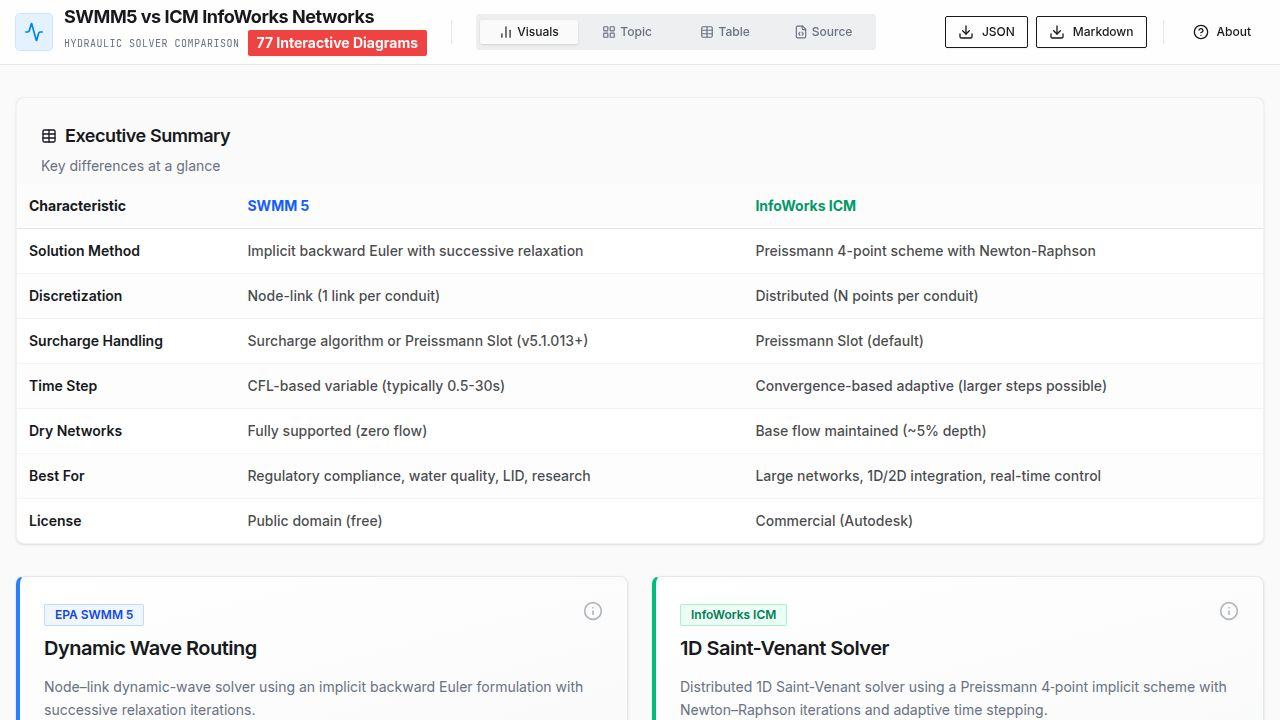
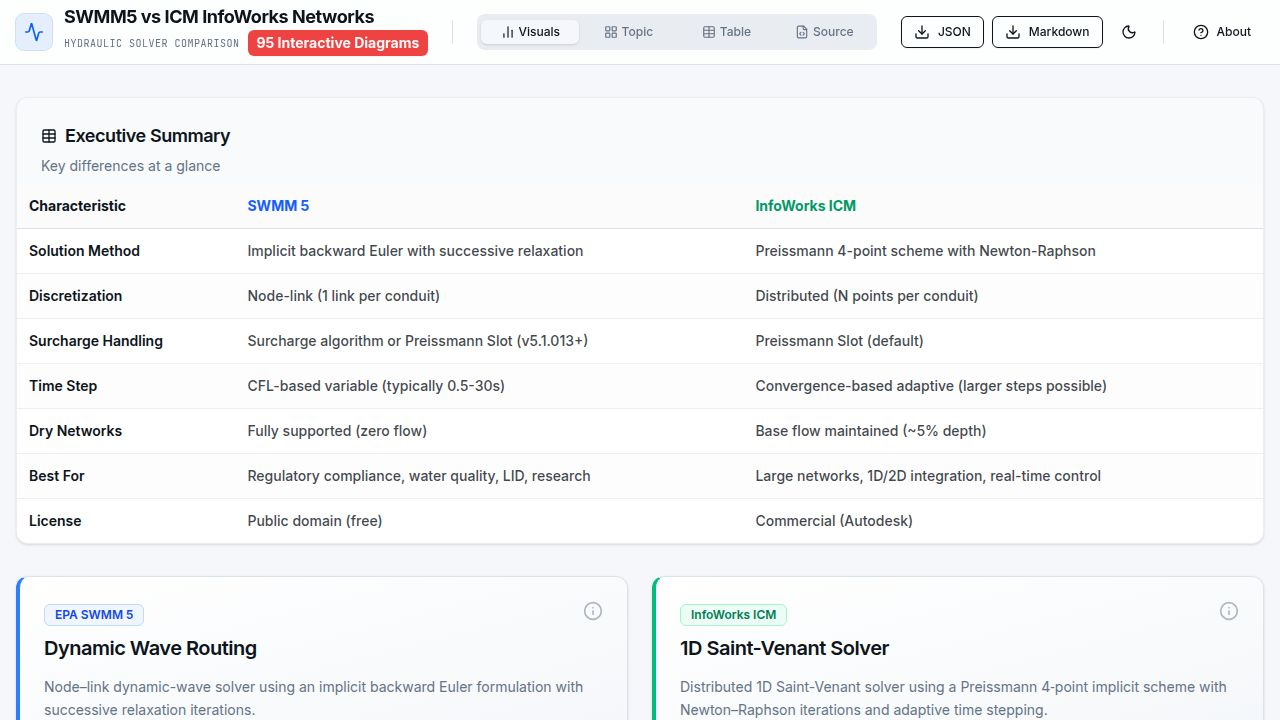
Add historical water engineering diagrams to the application
Integrates 13 new historical animation components into the dashboard, updating the total diagram count and adding a new "historical" category with associated icon and section rendering in `client/src/pages/dashboard.tsx` and `replit.md`.

Replit-Commit-Author: Agent
Replit-Commit-Session-Id: 5b81d055-9c16-4af7-9787-48380cdaf35a
Replit-Commit-Checkpoint-Type: intermediate_checkpoint
Replit-Commit-Event-Id: 1de66645-4fce-4c91-8a32-67608d3ea632
Replit-Commit-Screenshot-Url: https://storage.googleapis.com/screenshot-production-us-central1/2a707dae-af1b-4a4d-b422-ffcd7bd3aade/5b81d055-9c16-4af7-9787-48380cdaf35a/DLFIjJa
Replit-Helium-Checkpoint-Created: true

diff --git a/client/src/pages/dashboard.tsx b/client/src/pages/dashboard.tsx
@@ -23,7 +23,8 @@ import {
   Clock,
   Workflow,
   Moon,
-  Sun
+  Sun,
+  Landmark
 } from "lucide-react";
 import { useTheme } from "@/hooks/use-theme";
 import { Button } from "@/components/ui/button";
@@ -93,6 +94,9 @@ import {
 } from "@/components/visuals/ReviewDiagrams";
 import { ICMManholeSimulator } from "@/components/visuals/ICMManholeSimulator";
 import { BackwaterPropagation, OneDTwoDCoupling, ManholeStorageVolume, FloodTypeComparison } from "@/components/visuals/NodeAnimations";
+import { RomanAqueductAnimation, DujiangyanAnimation, IncaFountainAnimation, PersianQanatAnimation } from "@/components/visuals/HistoricalAnimations";
+import { IndianStepwellAnimation, AztecDikeAnimation, DutchPolderAnimation, RomanSiphonAnimation } from "@/components/visuals/HistoricalAnimations2";
+import { MayaFiltrationAnimation, KhmerBarayAnimation, CloacaMaximaAnimation, IndusValleyDrainAnimation, ArchimedesScrewAnimation } from "@/components/visuals/HistoricalAnimations3";
 import heroImage from "@assets/generated_images/abstract_fluid_dynamics_network_blueprint.png";
 
 const TOPIC_DIAGRAM_MAP: Record<string, { category: string; label: string }[]> = {
@@ -124,6 +128,7 @@ const DIAGRAM_CATEGORIES = [
   { id: "inlets", label: "Surface-to-Sewer", icon: "grid", count: 4 },
   { id: "green", label: "Green Infrastructure", icon: "leaf", count: 2 },
   { id: "architecture", label: "Code Architecture", icon: "code", count: 5 },
+  { id: "historical", label: "Historical Engineering", icon: "landmark", count: 13 },
 ];
 
 export default function Dashboard() {
@@ -212,7 +217,7 @@ export default function Dashboard() {
               <h1 className="text-lg font-bold tracking-tight leading-none">SWMM5 vs ICM InfoWorks Networks</h1>
               <div className="flex items-center gap-2 mt-1">
                 <p className="text-[10px] text-muted-foreground font-mono uppercase tracking-wider">Hydraulic Solver Comparison</p>
-                <Badge variant="destructive" className="text-sm px-2 py-0.5 font-bold" data-testid="badge-diagram-count">82 Interactive Diagrams</Badge>
+                <Badge variant="destructive" className="text-sm px-2 py-0.5 font-bold" data-testid="badge-diagram-count">95 Interactive Diagrams</Badge>
               </div>
             </div>
             
@@ -484,7 +489,8 @@ export default function Dashboard() {
                                        cat.id === "climate" ? Cloud : 
                                        cat.id === "green" ? Leaf : 
                                        cat.id === "icm" ? Gauge : 
-                                       cat.id === "inlets" ? Grid3X3 : Code;
+                                       cat.id === "inlets" ? Grid3X3 : 
+                                      cat.id === "historical" ? Landmark : Code;
                  return (
                    <Button
                      key={cat.id}
@@ -873,6 +879,82 @@ export default function Dashboard() {
                  <div className="grid md:grid-cols-2 gap-6">
                     <MinorLossesDiagram />
                     <ReportingSystemDiagram />
+                 </div>
+               </div>
+             )}
+
+             {activeCategory === "historical" && (
+               <div className="space-y-6" data-testid="section-historical">
+                 <div className="mb-4">
+                   <h3 className="text-2xl font-bold tracking-tight mb-2">Historical Water Engineering</h3>
+                   <p className="text-muted-foreground">300,000 years of water engineering brought to life through interactive hydraulic simulations — with SWMM5/ICM equations visible and parameters adjustable.</p>
+                 </div>
+                 <div className="mt-4 mb-4">
+                   <h4 className="text-xl font-bold tracking-tight mb-2">Gravity Flow Systems</h4>
+                   <p className="text-muted-foreground text-sm">Ancient civilizations mastered gravity-driven water delivery across vast distances.</p>
+                 </div>
+                 <div className="grid md:grid-cols-1 gap-6">
+                    <RomanAqueductAnimation />
+                 </div>
+                 <div className="grid md:grid-cols-1 gap-6">
+                    <DujiangyanAnimation />
+                 </div>
+                 <div className="grid md:grid-cols-1 gap-6">
+                    <IncaFountainAnimation />
+                 </div>
+                 <div className="mt-6 mb-4">
+                   <h4 className="text-xl font-bold tracking-tight mb-2">Underground & Groundwater</h4>
+                   <p className="text-muted-foreground text-sm">Ingenious systems for tapping aquifers and accessing water tables.</p>
+                 </div>
+                 <div className="grid md:grid-cols-1 gap-6">
+                    <PersianQanatAnimation />
+                 </div>
+                 <div className="grid md:grid-cols-1 gap-6">
+                    <IndianStepwellAnimation />
+                 </div>
+                 <div className="mt-6 mb-4">
+                   <h4 className="text-xl font-bold tracking-tight mb-2">Flood Control</h4>
+                   <p className="text-muted-foreground text-sm">How ancient engineers protected cities from floods using dikes, polders, and passive flow control.</p>
+                 </div>
+                 <div className="grid md:grid-cols-1 gap-6">
+                    <AztecDikeAnimation />
+                 </div>
+                 <div className="grid md:grid-cols-1 gap-6">
+                    <DutchPolderAnimation />
+                 </div>
+                 <div className="mt-6 mb-4">
+                   <h4 className="text-xl font-bold tracking-tight mb-2">Pressure Flow</h4>
+                   <p className="text-muted-foreground text-sm">Pressurized pipe systems that predate modern force main engineering.</p>
+                 </div>
+                 <div className="grid md:grid-cols-1 gap-6">
+                    <RomanSiphonAnimation />
+                 </div>
+                 <div className="mt-6 mb-4">
+                   <h4 className="text-xl font-bold tracking-tight mb-2">Water Treatment & Storage</h4>
+                   <p className="text-muted-foreground text-sm">Filtration, reservoir management, and water quality — solved millennia ago.</p>
+                 </div>
+                 <div className="grid md:grid-cols-1 gap-6">
+                    <MayaFiltrationAnimation />
+                 </div>
+                 <div className="grid md:grid-cols-1 gap-6">
+                    <KhmerBarayAnimation />
+                 </div>
+                 <div className="mt-6 mb-4">
+                   <h4 className="text-xl font-bold tracking-tight mb-2">Sanitation & Drainage</h4>
+                   <p className="text-muted-foreground text-sm">The world's first sewers and urban drainage networks — some still in operation.</p>
+                 </div>
+                 <div className="grid md:grid-cols-1 gap-6">
+                    <CloacaMaximaAnimation />
+                 </div>
+                 <div className="grid md:grid-cols-1 gap-6">
+                    <IndusValleyDrainAnimation />
+                 </div>
+                 <div className="mt-6 mb-4">
+                   <h4 className="text-xl font-bold tracking-tight mb-2">Water Lifting</h4>
+                   <p className="text-muted-foreground text-sm">Mechanical pumping technology that hasn't been improved in 2,200 years.</p>
+                 </div>
+                 <div className="grid md:grid-cols-1 gap-6">
+                    <ArchimedesScrewAnimation />
                  </div>
                </div>
              )}

diff --git a/replit.md b/replit.md
@@ -4,13 +4,13 @@
 
 This is an educational web application that provides a structured comparison of how EPA SWMM 5 and InfoWorks ICM solve the 1D Saint-Venant equations for unsteady flow in hydraulic modeling. The app allows users to browse technical comparisons by topic, view side-by-side summary tables, and export content to Markdown or JSON formats.
 
-The application features **82 interactive diagrams and calculators** organized across **12 categories**, multiple viewing modes, and comprehensive source code documentation.
+The application features **95 interactive diagrams and calculators** organized across **13 categories**, multiple viewing modes, and comprehensive source code documentation.
 
 ## User Preferences
 
 Preferred communication style: Simple, everyday language.
 
-## Diagram Categories (82 Total)
+## Diagram Categories (95 Total)
 
 1. **Solver Mechanics** (13 diagrams) - Core solver algorithms, discretization, wave propagation, plus Preissmann Slot Calculator, Manning's Flow Calculator, Computational Points, Surcharge Algorithm, Live Network Comparison, Force Main Comparison, Backwater Propagation
 2. **Solver Options** (6 diagrams) - Routing methods, adaptive timesteps, CFL stability
@@ -24,6 +24,7 @@ Preferred communication style: Simple, everyday language.
 10. **Surface-to-Sewer** (4 diagrams) - Inlet elements, HEC-22 calculator
 11. **Green Infrastructure** (2 diagrams) - LID/SUDS, dual-solver architecture
 12. **Code Architecture** (5 diagrams) - Input parsing, matrix solver, RTC rules
+13. **Historical Engineering** (13 diagrams) - Roman Aqueduct, Dujiangyan, Inca Fountains, Persian Qanat, Indian Stepwell, Aztec Dike, Dutch Polder, Roman Siphon, Maya Filtration, Khmer Baray, Cloaca Maxima, Indus Valley Drains, Archimedes Screw
 
 ## System Architecture
 
@@ -52,6 +53,9 @@ The frontend follows a component-based architecture with:
   - `InletDiagrams.tsx` - Surface-to-sewer connections
   - `GreenInfraDiagrams.tsx` - LID/SUDS controls
   - `ArchitecturalDiagrams.tsx` - Code structure visualization
+  - `HistoricalAnimations.tsx` - Roman Aqueduct, Dujiangyan, Inca Fountains, Persian Qanat
+  - `HistoricalAnimations2.tsx` - Indian Stepwell, Aztec Dike, Dutch Polder, Roman Siphon
+  - `HistoricalAnimations3.tsx` - Maya Filtration, Khmer Baray, Cloaca Maxima, Indus Valley, Archimedes Screw
 - Static comparison data in `client/src/data/comparison-data.ts`
 - Source code snippets in `client/src/data/source-code-snippets.ts`
 
@@ -120,4 +124,5 @@ The database schema currently includes a users table, though the primary applica
 - Added **Manhole Storage Volume** comparison with tapered vs uniform shaft geometry
 - Added **Flood Type Comparison** showing Lost/Ponded/Stored/2D options
 - Added **Dark Mode Toggle** with blue theme across light and dark modes
-- Total diagram count: 82 across 12 categories
+- Added **Historical Engineering** category (13 animations) — Roman Aqueduct, Dujiangyan, Inca Fountains, Persian Qanat, Indian Stepwell, Aztec Dike, Dutch Polder, Roman Siphon, Maya Filtration, Khmer Baray, Cloaca Maxima, Indus Valley Drains, Archimedes Screw
+- Total diagram count: 95 across 13 categories
